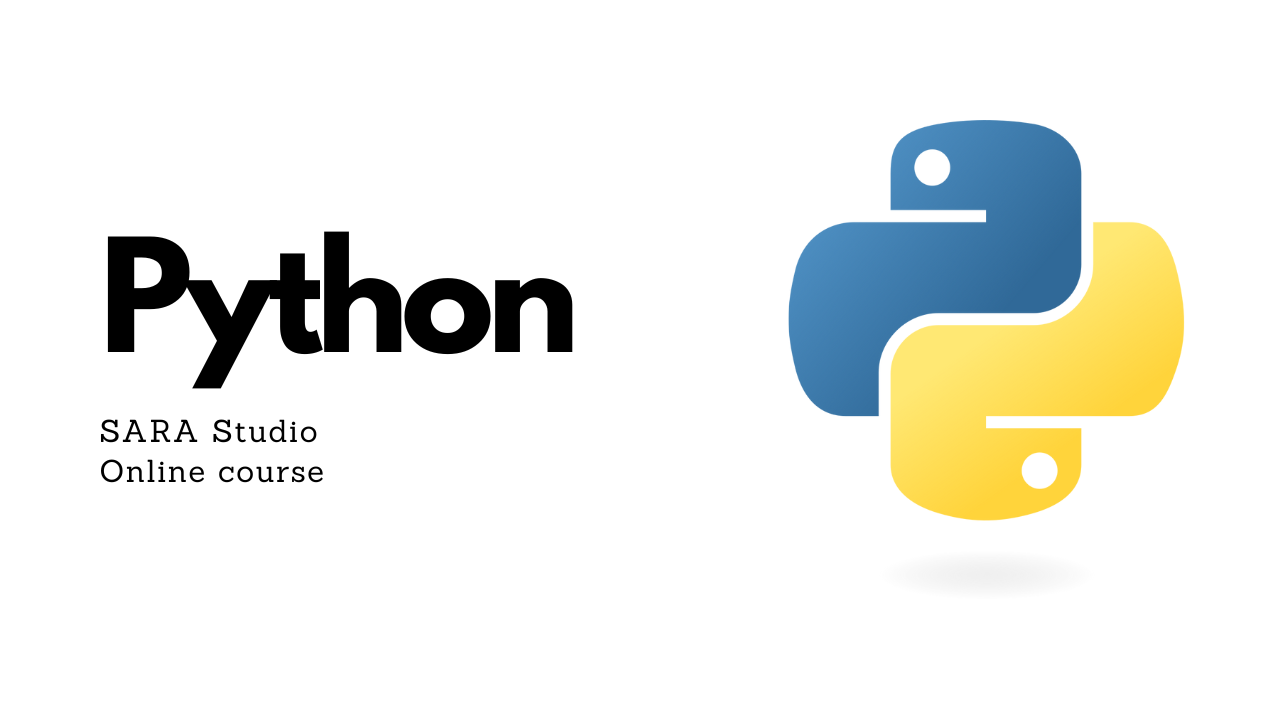
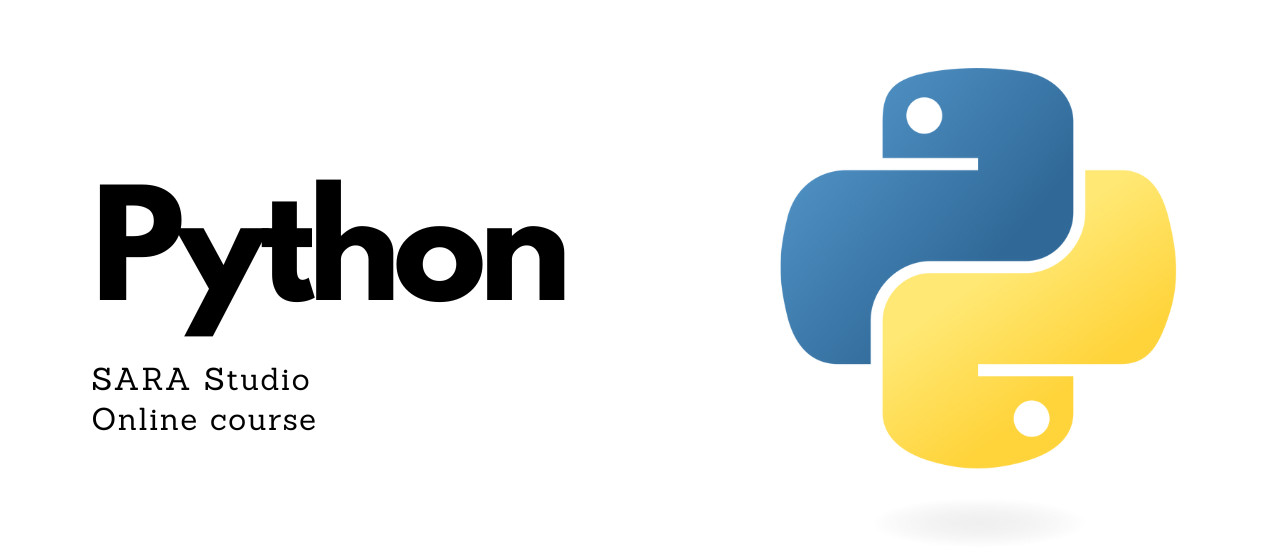
corrected python page

diff --git a/_site/online/python-course/index.html b/_site/online/python-course/index.html
@@ -80,8 +80,8 @@ ul.task-list li input[type="checkbox"] {
 <meta name="twitter:creator" content="@sara_institute">
 <meta name="twitter:site" content="@sara_institute">
 <meta name="twitter:card" content="summary_large_image">
-<meta name="twitter:image-height" content="720">
-<meta name="twitter:image-width" content="1280">
+<meta name="twitter:image-height" content="560">
+<meta name="twitter:image-width" content="1265">
 </head>
 
 <body class="nav-fixed">
@@ -186,7 +186,7 @@ ul.task-list li input[type="checkbox"] {
 
 <header id="title-block-header" class="quarto-title-block default">
 <div class="quarto-title">
-<h1 class="title">Introduction to Python Programming</h1>
+<h1 class="title"><br>Introduction to Python Programming</h1>
   <div class="quarto-categories">
     <div class="quarto-category">python</div>
     <div class="quarto-category">data science</div>
@@ -219,9 +219,6 @@ ul.task-list li input[type="checkbox"] {
 </header>
 
 
-<p><br></p>
-<section id="python-programming-language" class="level1">
-<h1>Python Programming Language</h1>
 <div class="col">
 <div class="card">
 <div class="centering">
@@ -229,7 +226,7 @@ ul.task-list li input[type="checkbox"] {
 </div>
 <section id="sara-online-python-course-for-beginners" class="level2">
 <h2 class="anchored" data-anchor-id="sara-online-python-course-for-beginners">SARA Online Python Course for Beginners</h2>
-<p><strong>Unlock the Power of Coding with Python – Start Your Journey Today!</strong></p>
+<p>Unlock the Power of Coding with Python – Start Your Journey Today!</p>
 <section id="course-overview" class="level3">
 <h3 class="anchored" data-anchor-id="course-overview">Course Overview</h3>
 <p>The SARA Python Programming for Beginners course is designed for absolute newcomers to coding. Whether you’re a student, professional, or hobbyist, this course will equip you with foundational Python skills through hands-on projects, interactive lessons, and expert guidance. Learn to automate tasks, analyze data, and build simple applications—no prior experience required!</p>
@@ -272,9 +269,9 @@ ul.task-list li input[type="checkbox"] {
 </div>
 <p><br></p>
 <div class="quarto-video ratio ratio-16x9"><iframe data-external="1" src="https://www.youtube.com/embed/TU1Bt-3I8pY?feature=shared" title="" frameborder="0" allow="accelerometer; autoplay; clipboard-write; encrypted-media; gyroscope; picture-in-picture" allowfullscreen=""></iframe></div>
+<p><br></p>
 
 
-</section>
 
 </main> <!-- /main -->
 <script id="quarto-html-after-body" type="application/javascript">

diff --git a/_site/online.html b/_site/online.html
@@ -284,7 +284,7 @@ window.Quarto = {
 
 <div class="quarto-listing quarto-listing-container-default" id="listing-listing">
 <div class="list quarto-listing-default">
-<div class="quarto-post image-right" data-index="0" data-categories="cHl0aG9uJTJDZGF0YSUyMHNjaWVuY2U=" data-listing-date-sort="1713465000000" data-listing-file-modified-sort="1745477955813" data-listing-date-modified-sort="NaN" data-listing-reading-time-sort="2" data-listing-word-count-sort="219">
+<div class="quarto-post image-right" data-index="0" data-categories="cHl0aG9uJTJDZGF0YSUyMHNjaWVuY2U=" data-listing-date-sort="1713465000000" data-listing-file-modified-sort="1745505379437" data-listing-date-modified-sort="NaN" data-listing-reading-time-sort="2" data-listing-word-count-sort="213">
 <div class="thumbnail">
 <p><a href="./online/python-course/index.html" class="no-external"></a></p><a href="./online/python-course/index.html" class="no-external">
 <p><img loading="lazy" src="./online/python-course/python.png" class="thumbnail-image"></p>
@@ -292,7 +292,7 @@ window.Quarto = {
 </div>
 <div class="body">
 <h3 class="no-anchor listing-title">
-<a href="./online/python-course/index.html" class="no-external">Introduction to Python Programming</a>
+<a href="./online/python-course/index.html" class="no-external"><br>Introduction to Python Programming</a>
 </h3>
 <div class="listing-subtitle">
 <a href="./online/python-course/index.html" class="no-external"></a>
@@ -306,7 +306,7 @@ data science
 </div>
 </div>
 <div class="listing-description">
-<a href="./online/python-course/index.html" class="no-external"><br></a>
+<a href="./online/python-course/index.html" class="no-external">Unlock the Power of Coding with Python – Start Your Journey Today!</a>
 </div>
 </div>
 <div class="metadata">
